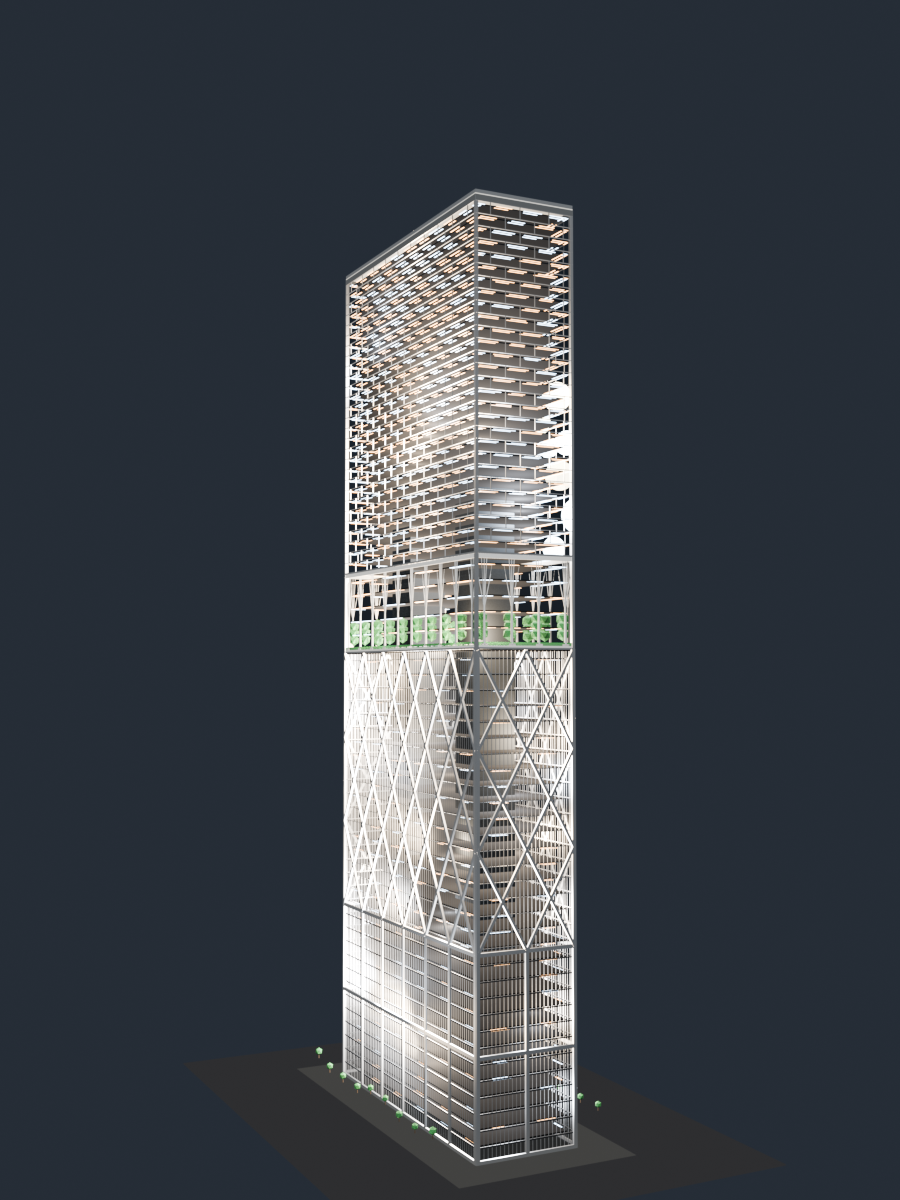
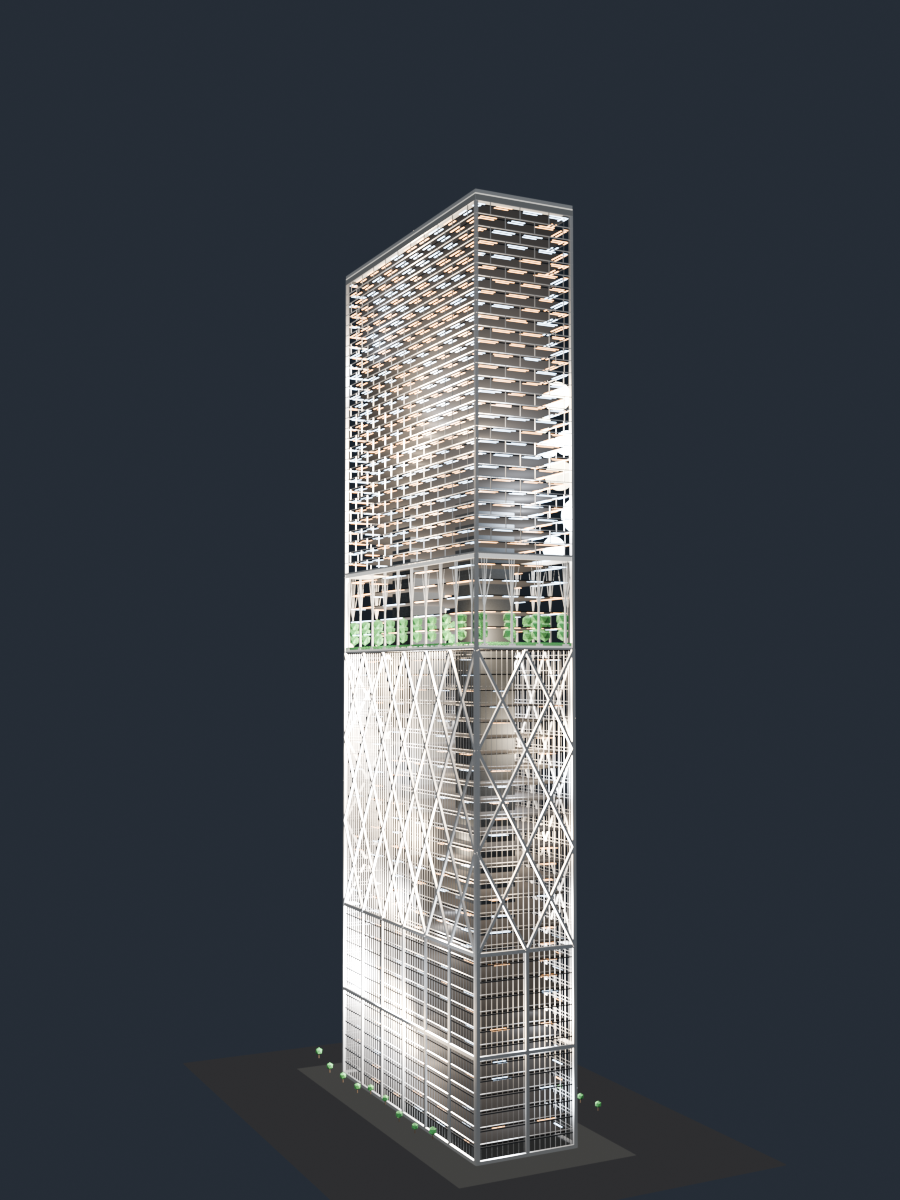
feat: split every Stack 3 pane with a transom a metre above the floor
Adds the second horizontal bar of the Stack 2 window: a 50 x 200 mm transom
1.05 m above each floor, so every window reads as a short lower pane plus the
tall vision pane above it.

Changed region(s): [[0.3733, 0.5242, 0.6533, 0.9558]]

diff --git a/build_stack3.py b/build_stack3.py
@@ -458,20 +458,27 @@ def build_lattice(mats, cols, rng):
     mull = Part("Lattice_Mullions", mats["silver"], col)
     for face in FACES:
         half = face_half(face)
-        n = max(8, int(round(2 * half / 1.45)))
+        n = max(8, int(round(2 * half / 1.9)))
         step = 2 * half / n
         for i in range(n + 1):
             u = -half + i * step
-            mull.face_box(face, u - 0.10, u + 0.10, z0, z1, -0.50, 0.08)
+            # Flat bar section: 50 mm on the face, 200 mm deep into the reveal.
+            mull.face_box(face, u - 0.025, u + 0.025, z0, z1, -0.62, 0.20)
     mull.finish()
 
     trans = Part("Lattice_Transoms", mats["silver"], col)
     for face in FACES:
         half = face_half(face)
         for z in [z0] + [lev for lev in floor_levels() if z0 < lev <= z1]:
-            lo = 0.0 if z <= z0 else z - 0.10
-            hi = 0.20 if z <= z0 else z + 0.10
-            trans.face_box(face, -half, half, lo, hi, -0.50, 0.08)
+            # floor line
+            lo = 0.0 if z <= z0 else z - 0.025
+            hi = 0.05 if z <= z0 else z + 0.025
+            trans.face_box(face, -half, half, lo, hi, -0.62, 0.20)
+            # and a second transom about a metre above every floor, so each
+            # window reads as two panes like the Stack 2 apartment wall
+            if z + 1.15 < z1:
+                trans.face_box(face, -half, half, z + 1.05, z + 1.10,
+                               -0.62, 0.20)
     trans.finish()
 
     # A real curtain wall behind the big frame: narrow vertical panes between

diff --git a/README.md b/README.md
@@ -251,9 +251,9 @@ module and run 28 floors.
   band, the floor line is the dark slab edge itself; every floor plate in the
   model is near-black. Behind it is one dark glass skin with no visible pane
   joints at all: a fine vertical curtain wall of 1.25 m panes - 4:1 with the
-  5 m storey - each pane framed by flat 200 mm bars: verticals on a 1.45 m
-  pitch and a 200 mm transom on every floor, with the glass behind them in the
-  200 mm reveal. Every floor, here and in the planted level, is
+  5 m storey - each window framed by flat bars of 50 x 200 mm: verticals on a
+  1.9 m pitch, a transom on every floor and a second one about a metre above it,
+  so each window is two panes like the Stack 2 apartment wall. Every floor, here and in the planted level, is
   lit the same way as the apartments: one cool-or-warm ceiling strip per room.
 - **Plaza, 158-188 m.** A planted arcade of branching tree columns and planting,
   open through - no interior wall - with the same room strips on its floors.
